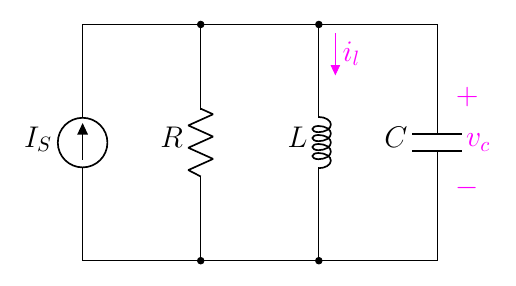
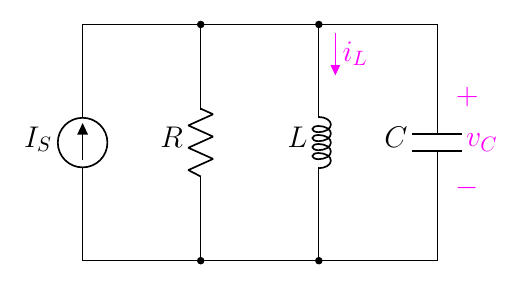
9.39

diff --git a/2.8 Underdamped/9.4 The Underdamped RLC Circuit/9.39-8th(new).tex b/2.8 Underdamped/9.4 The Underdamped RLC Circuit/9.39-8th(new).tex
@@ -29,10 +29,10 @@
     % \node at (3.2,1.5)[]{$t=0$};
 
     \draw[magenta](6.2,1)
-        to[open, v>=$v_c$] ++(0,2);
+        to[open, v>=$v_C$] ++(0,2);
 
     \draw[circuitikz/current arrow color=magenta](4,4)
-        to[open,f>^=$\color{magenta}{i_l}$] ++(0,-2.4);
+        to[open,f>^=$\color{magenta}{i_L}$] ++(0,-2.4);
 
 \end{circuitikz}
 \end{document}
